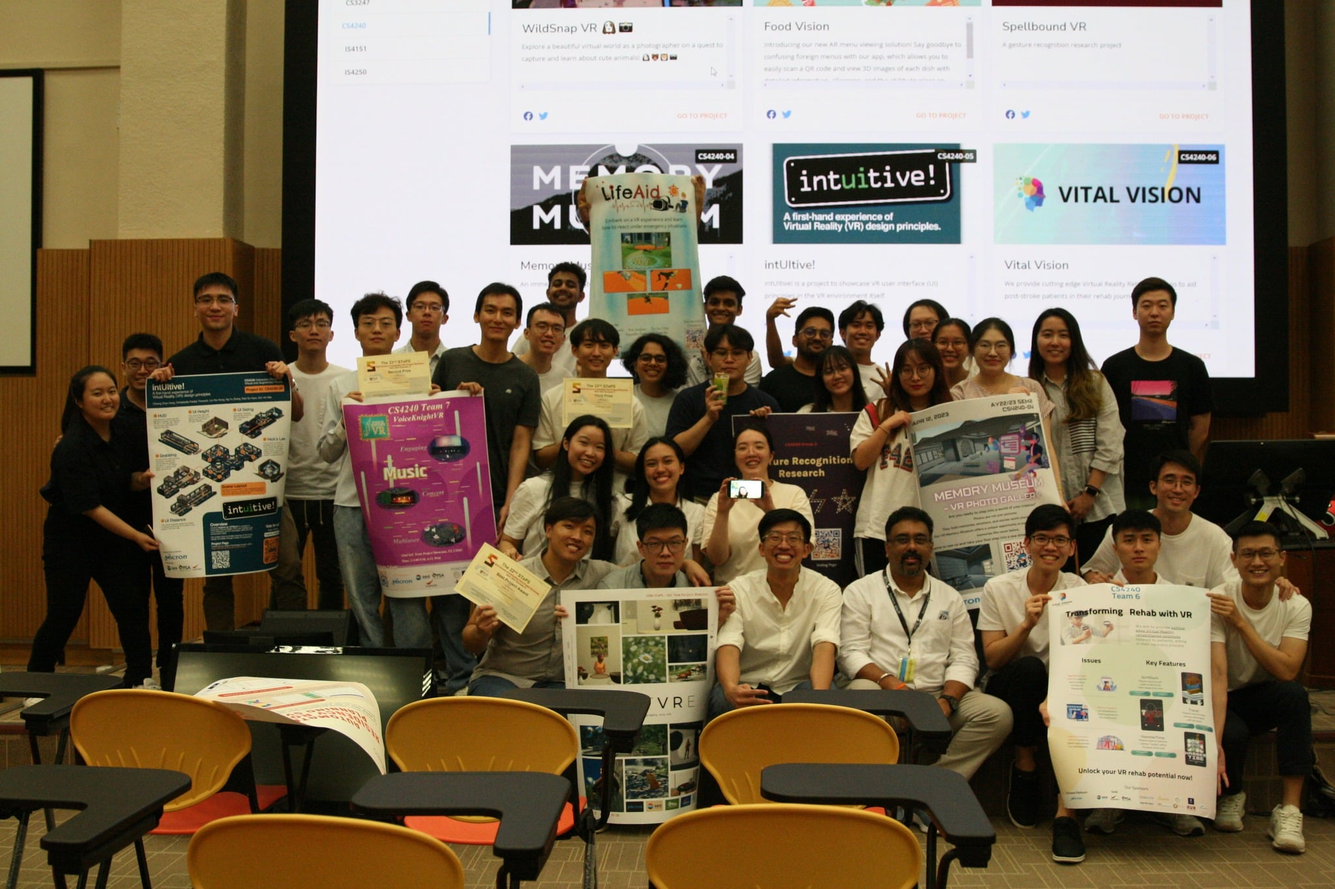
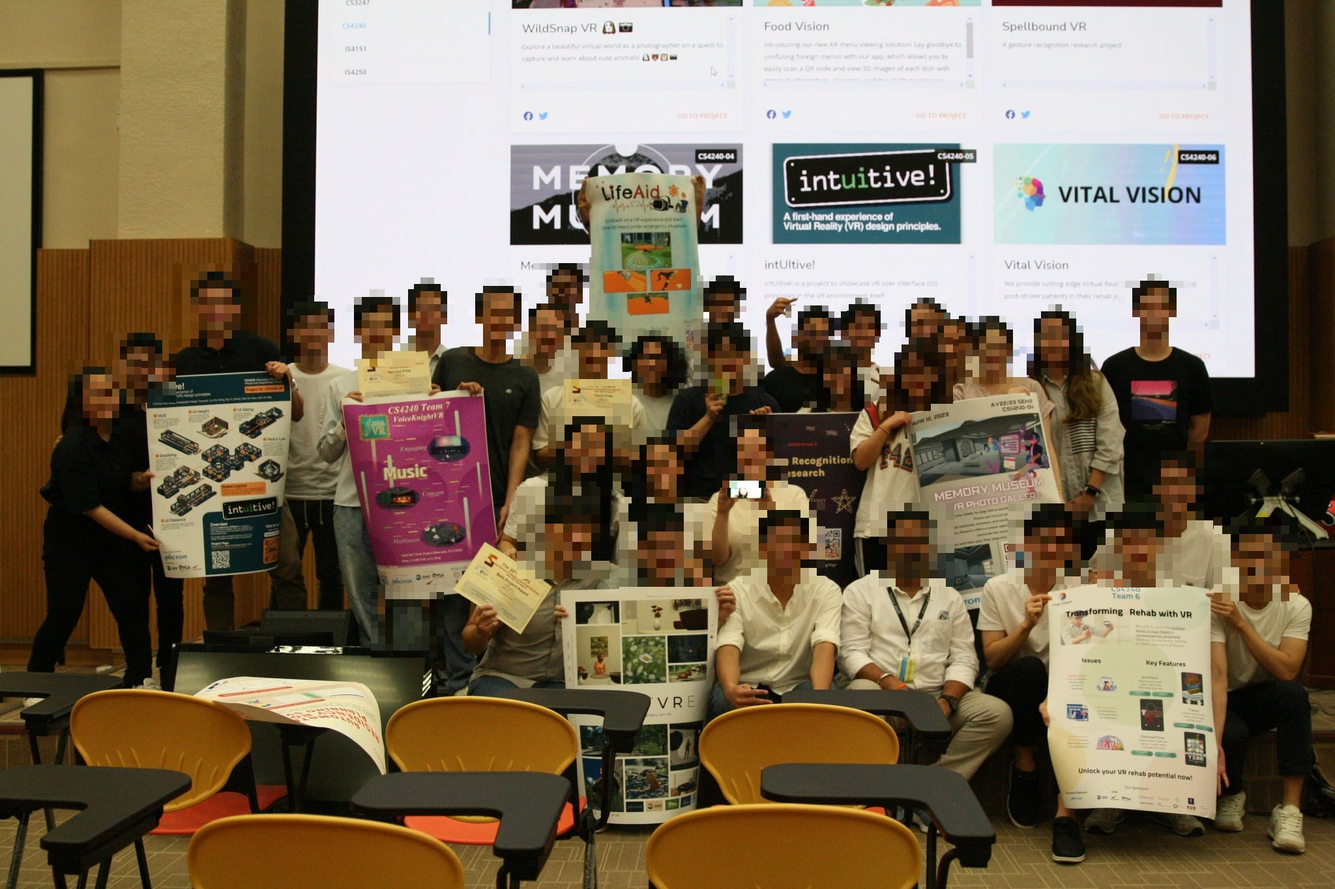
Pixelate faces in teaching photos, match intro-header/updates font sizes, and set custom homepage tab title
Faces detected via OpenCV Haar cascade (plus manual marking where detection
missed people) are now pixelated in the CS4240 and UI/interaction-design
group photos to anonymize students. Also matches intro-header name/role/email
and updates list font size to the body prose size, fixes first-line baseline
alignment across the intro-header columns, and adds a custom browser tab
title for the homepage separate from the SEO title.

diff --git a/assets/css/_intro.scss b/assets/css/_intro.scss
@@ -317,25 +317,22 @@
   }
 
   .intro-header-name {
-    @include type-body-sm;
+    @include type-body;
     color: var(--text-secondary);
     margin: 0;
-    line-height: $leading-tight;
   }
 
   .intro-header-role,
   .intro-header-affiliation {
-    @include type-body-sm;
+    @include type-body;
     color: var(--text-secondary);
     margin: 0;
-    line-height: $leading-tight;
   }
 
   .intro-header-contact {
-    @include type-body-sm;
+    @include type-body;
     color: var(--text-secondary);
     margin: 0;
-    line-height: $leading-tight;
     width: 100%;
     word-break: break-word;
     overflow-wrap: break-word;
@@ -388,7 +385,6 @@
   .intro-image-research-content {
     @include type-body-sm;
     color: var(--text-secondary);
-    padding-top: 0.25rem;
     flex: 1;
     min-width: 0;
 
@@ -485,7 +481,7 @@
     align-items: flex-start;
     text-align: left;
     gap: 0.1875rem;
-    font-size: 0.9375rem;
+    font-size: $text-base;
     line-height: 1.5;
   }
 

diff --git a/_layouts/masonry.html b/_layouts/masonry.html
@@ -8,7 +8,12 @@
   <link rel="manifest" href="{{ '/manifest.json' | relative_url }}">
   <meta name="theme-color" content="#ffffff">
   {% include favicon.html %}
+  {% if page.tab_title %}
+  <title>{{ page.tab_title }}</title>
+  {% seo title=false %}
+  {% else %}
   {% seo %}
+  {% endif %}
   <link rel="preconnect" href="https://fonts.googleapis.com">
   <link rel="preconnect" href="https://fonts.gstatic.com" crossorigin>
   <link rel="preconnect" href="https://unpkg.com" crossorigin>
